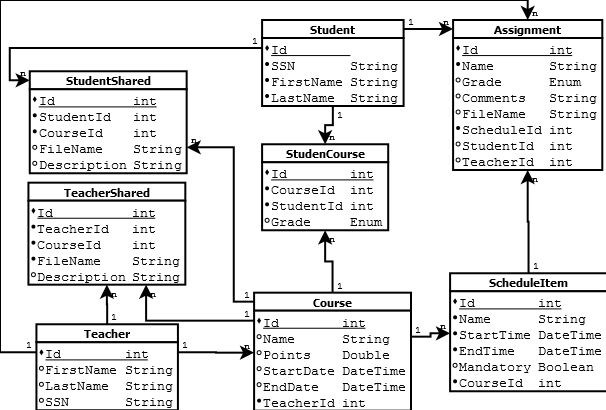
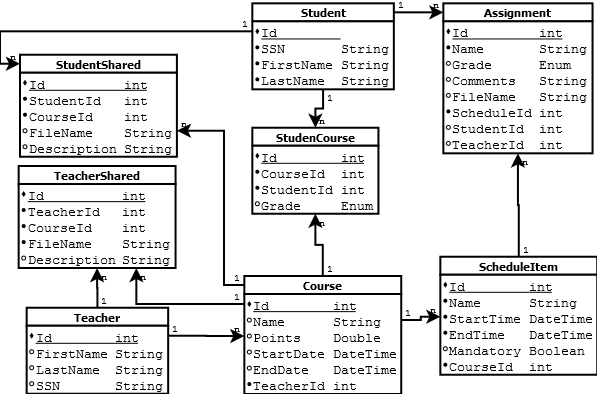
changes in models

Changed region(s): [[0.0, 0.0, 1.0, 1.0], [0.0, 0.0, 0.0302, 0.0305]]

diff --git a/LMS-RAM/Migrations/201603180917201_Initial.cs b/LMS-RAM/Migrations/201603180917201_Initial.cs
@@ -13,7 +13,6 @@ namespace LMS_RAM.Migrations
                     {
                         Id = c.Int(nullable: false, identity: true),
                         StudentId = c.Int(nullable: false),
-                        TeacherId = c.Int(nullable: false),
                         ScheduleItemId = c.Int(nullable: false),
                         Name = c.String(maxLength: 50),
                         Grade = c.Int(),
@@ -23,9 +22,7 @@ namespace LMS_RAM.Migrations
                 .PrimaryKey(t => t.Id)
                 .ForeignKey("dbo.ScheduleItems", t => t.ScheduleItemId, cascadeDelete: true)
                 .ForeignKey("dbo.Students", t => t.StudentId, cascadeDelete: true)
-                .ForeignKey("dbo.Teachers", t => t.TeacherId, cascadeDelete: true)
                 .Index(t => t.StudentId)
-                .Index(t => t.TeacherId)
                 .Index(t => t.ScheduleItemId);
             
             CreateTable(
@@ -34,7 +31,7 @@ namespace LMS_RAM.Migrations
                     {
                         Id = c.Int(nullable: false, identity: true),
                         CourseId = c.Int(nullable: false),
-                        Name = c.String(nullable: false, maxLength: 50),
+                        Name = c.String(nullable: false),
                         StartTime = c.DateTime(nullable: false),
                         EndTime = c.DateTime(nullable: false),
                         Mandatory = c.Boolean(nullable: false),
@@ -74,9 +71,9 @@ namespace LMS_RAM.Migrations
                 c => new
                     {
                         Id = c.Int(nullable: false, identity: true),
-                        SSN = c.String(nullable: false, maxLength: 50),
-                        FirstName = c.String(nullable: false, maxLength: 50),
-                        LastName = c.String(nullable: false, maxLength: 50),
+                        SSN = c.String(nullable: false),
+                        FirstName = c.String(nullable: false),
+                        LastName = c.String(nullable: false),
                     })
                 .PrimaryKey(t => t.Id);
             
@@ -137,7 +134,6 @@ namespace LMS_RAM.Migrations
             DropForeignKey("dbo.StudentShareds", "CourseId", "dbo.Courses");
             DropForeignKey("dbo.StudentCourses", "StudentId", "dbo.Students");
             DropForeignKey("dbo.StudentCourses", "CourseId", "dbo.Courses");
-            DropForeignKey("dbo.Assignments", "TeacherId", "dbo.Teachers");
             DropForeignKey("dbo.Assignments", "StudentId", "dbo.Students");
             DropForeignKey("dbo.Assignments", "ScheduleItemId", "dbo.ScheduleItems");
             DropForeignKey("dbo.ScheduleItems", "CourseId", "dbo.Courses");
@@ -151,7 +147,6 @@ namespace LMS_RAM.Migrations
             DropIndex("dbo.Courses", new[] { "TeacherId" });
             DropIndex("dbo.ScheduleItems", new[] { "CourseId" });
             DropIndex("dbo.Assignments", new[] { "ScheduleItemId" });
-            DropIndex("dbo.Assignments", new[] { "TeacherId" });
             DropIndex("dbo.Assignments", new[] { "StudentId" });
             DropTable("dbo.TeacherShareds");
             DropTable("dbo.StudentShareds");

diff --git a/LMS-RAM/Models/Assignment.cs b/LMS-RAM/Models/Assignment.cs
@@ -14,7 +14,7 @@ namespace LMS_RAM.Models
         public int Id { get; set; }
 
 		public int StudentId { get; set; }
-		public int TeacherId { get; set; }
+		//	public int TeacherId { get; set; }
 		public int ScheduleItemId { get; set; }
 
         [StringLength(50, ErrorMessage = "Max 50 tecken")]
@@ -37,8 +37,8 @@ namespace LMS_RAM.Models
         [ForeignKey("StudentId")]
         public virtual Student Student { get; set; }
   
-        [ForeignKey("TeacherId")]
-        public virtual Teacher Teacher { get; set; }
+        //[ForeignKey("TeacherId")]
+        //public virtual Teacher Teacher { get; set; }
         
         [ForeignKey("ScheduleItemId")]
         public virtual ScheduleItem Schedule { get; set; }

diff --git a/LMS-RAM/Migrations/201603180917201_Initial.Designer.cs b/LMS-RAM/Migrations/201603180917201_Initial.Designer.cs
@@ -13,7 +13,7 @@ namespace LMS_RAM.Migrations
         
         string IMigrationMetadata.Id
         {
-            get { return "201603171509479_Initial"; }
+            get { return "201603180917201_Initial"; }
         }
         
         string IMigrationMetadata.Source
